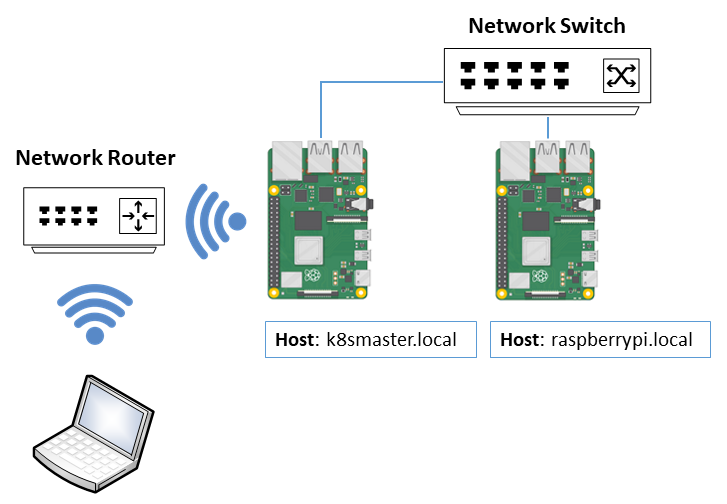
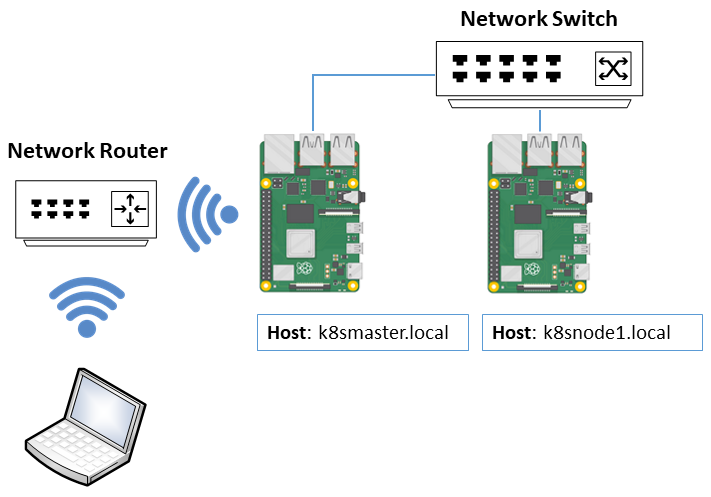
doco

diff --git a/README.md b/README.md
@@ -91,10 +91,10 @@ The Kubernetes Master is also responsible for:
 
 ![](https://raw.githubusercontent.com/gloveboxes/Raspberry-Pi-Kubernetes-Cluster/master/Resources/network.png)
 
-## Naming Conventions
+## Naming Conventions Used
 
-1. Kubernetes Master: k8smaster.local
-2. Kubernetes Nodes: k8snode1..n
+1. The Kubernetes Master will be named **k8smaster.local**
+2. The Kubernetes Nodes will be named **k8snode1..n**
 
 ## Kubernetes Master Installation
 
@@ -121,20 +121,19 @@ bash -c "$(curl https://raw.githubusercontent.com/gloveboxes/Raspberry-Pi-Kubern
 
 2. Select **M**aster set up.
 
-#### Step 2: Prerequisites and Optimizations
+#### Step 2: Configure Prerequisites
 
-No user action required.
-
-1. The Raspberry Pi will be renamed to **k8smaster**
-2. Various optimizations/prerequisites set (tmpfs, GPU memory, 64bit kernel enabled, swap diabled, cgroups for k8s, iptables set to legacy mode)
-3. Network settings configured (Static address for eth0, and packet routing defined)
-4. DHCP Server and Docker installed
+1. Various optimizations/prerequisites set (tmpfs, GPU memory, 64bit kernel enabled, swap diabled, cgroups for k8s, iptables set to legacy mode)
+2. Network settings configured (Static address for eth0, and packet routing defined)
+3. DHCP Server installed
+4. The Raspberry Pi will be renamed to **k8smaster**
+5. The Raspberry Pi is rebooted.
 
 #### Step 3: Docker Installation
 
-No user action required.
-
-1. Docker is installed and the Raspberry Pi will reboot.
+1. Reconnect to the Raspberry Pi as `ssh pi@k8smaster.local`
+2. Docker is installed
+3. The Raspberry Pi is rebooted.
 
 #### Step 4: Kubernetes Installation
 
@@ -144,15 +143,13 @@ No user action required.
 
 #### Step 5: Kubernetes Master Configuraton
 
-No user action required.
-
 1. [Flannel CNI](https://kubernetes.io/docs/concepts/cluster-administration/networking/#the-kubernetes-network-model) (Cluster Networking) installation
 2. [MetalLB LoadBalance](https://metallb.universe.tf/) installation
-3. Kubernetes Dashboard installation and configuration for admin access
+3. [Kubernetes Dashboard](https://kubernetes.io/docs/tasks/access-application-cluster/web-ui-dashboard/) installation and configured for [admin access](https://medium.com/@kanrangsan/creating-admin-user-to-access-kubernetes-dashboard-723d6c9764e4)
 
-#### Step 6: Record Kubernetes Node Join Token
+#### Step 6: Kubernetes Node Join Token Created
 
-1. You need to take a note, and save the **kubeadm join 192.168.100.1:6443 --token ... --discovery-token-ca-cert-hash ...** command. This will be displayed on the terminal screen. You will need this information to join the Kubernetes Nodes to the Kubernetes Master.
+1. A Kubernetes Node Join token is created and saved to _~/k8s-join-token_ on the Kubernetes Master. You will need this token to join new Kubernetes Nodes to the Master.
 
 ## Kubernetes Node Installation
 
@@ -272,15 +269,7 @@ route add -net 192.168.100.0 netmask 255.255.255.0 gw 192.168.0.55
 
 ## Kubernetes Dashboard
 
-Acknowledgements:
-
-* [Creating admin user to access Kubernetes dashboard](https://medium.com/@kanrangsan/creating-admin-user-to-access-kubernetes-dashboard-723d6c9764e4)
-
-References:
-
-* [Kubernetes Web UI (Dashboard)](https://kubernetes.io/docs/tasks/access-application-cluster/web-ui-dashboard/)
-
-#### Step 1: Create Dashboard Access Token
+### Step 1: Create Dashboard Access Token
 
 This assumes you have installed **kubectl** and copied .kube config file to your desktop computer. 
 
@@ -288,7 +277,7 @@ This assumes you have installed **kubectl** and copied .kube config file to your
 kubectl -n kube-system describe secret $(kubectl -n kube-system get secret | grep admin-user | awk '{print $1}')
 ```
 
-#### Step 2: Start the Kubernetes Proxy
+### Step 2: Start the Kubernetes Proxy
 
 On Desktop computer, in a terminal window start the Kubernetes Proxy
 
@@ -296,7 +285,7 @@ On Desktop computer, in a terminal window start the Kubernetes Proxy
 kubectl proxy
 ```
 
-#### Step 3: Browse to the Kubernetes Dashboard
+### Step 3: Browse to the Kubernetes Dashboard
 
 Click the following link to open the Kubernetes Dashboard. Select **Token** authentication, paste in the token you created from **Step 1** and connect.
 
@@ -309,18 +298,10 @@ Click the following link to open the Kubernetes Dashboard. Select **Token** auth
 NFS Server installed on k8snode1.local
 
 1. Set up by Kubernetes Master and k8snode1.local installation.
-2. Further description coming
+2. Provisioned by Kubernetes Master installation script.
+3. The following diagram describes how persistent storage is configured in the cluster.
 
-* [Kubernetes NFS-Client Provisioner](https://github.com/kubernetes-incubator/external-storage/tree/master/nfs-client)
-* [kubernetes-incubator/external-storage](https://github.com/kubernetes-incubator/external-storage/blob/master/nfs-client/deploy/deployment-arm.yaml)
-
-See yaml definitions for more details
-
-* ./kubeset/persistent-volume-claim.yaml
-* ./kubeset/persistent-volume.yaml
-* ./kubeset/nfs-client-deployment-arm.yaml
-
-![](Resources/nfs-server.png)
+    ![](Resources/nfs-server.png)
 
 ## Useful Commands
 
@@ -330,23 +311,29 @@ See yaml definitions for more details
 dhcp-lease-list
 ```
 
-### Regenerate Kubernetes Token
-
-[kubeadm token](https://kubernetes.io/docs/reference/setup-tools/kubeadm/kubeadm-token/)
-
-### Show Kubeadm Token
-
-https://stackoverflow.com/questions/40009831/cant-find-kubeadm-token-after-initializing-master
-
-```bash
-cat /etc/kubernetes/pki/tokens.csv
-```
-
-kubeadm token list
-kubeadm token create <copied token from previous command output>** --print-join-command
-
-## Resetting Kubernetes Master or Node
+### Resetting Kubernetes Master or Node
 
 ````bash
 sudo kubeadm reset && sudo systemctl daemon-reload && sudo systemctl restart kubelet.service
 ````
+
+## References and Acknowledgements
+
+1. Setting [iptables to legacy mode](https://github.com/kubernetes/kubernetes/issues/71305) on Raspbian Buster/Debian 10 for Kubernetes kube-proxy. Configured in installation scripts.
+
+    ```bash
+    sudo update-alternatives --set iptables /usr/sbin/iptables-legacy > /dev/null
+    sudo update-alternatives --set ip6tables /usr/sbin/ip6tables-legacy > /dev/null
+    ```
+2. [Kubernetes Secrets](https://www.tutorialspoint.com/kubernetes/kubernetes_secrets.htm)
+
+### Kubernetes Dashboard
+
+1. [Kubernetes Web UI (Dashboard)](https://kubernetes.io/docs/tasks/access-application-cluster/web-ui-dashboard/)
+2. [Creating admin user to access Kubernetes dashboard](https://medium.com/@kanrangsan/creating-admin-user-to-access-kubernetes-dashboard-723d6c9764e4)
+
+
+### Kubernetes Persistent Storage
+
+1. [Kubernetes NFS-Client Provisioner](https://github.com/kubernetes-incubator/external-storage/tree/master/nfs-client)
+2. [kubernetes-incubator/external-storage](https://github.com/kubernetes-incubator/external-storage/blob/master/nfs-client/deploy/deployment-arm.yaml)
